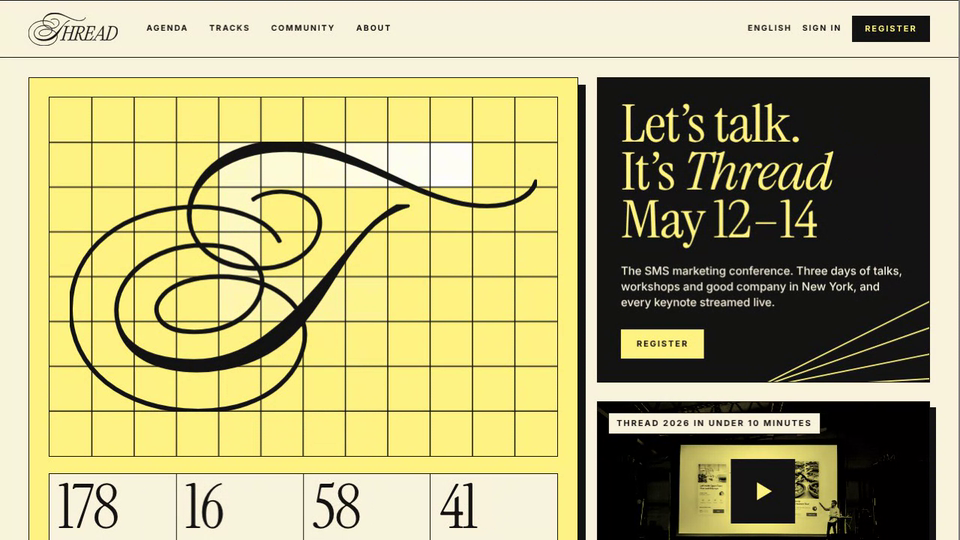
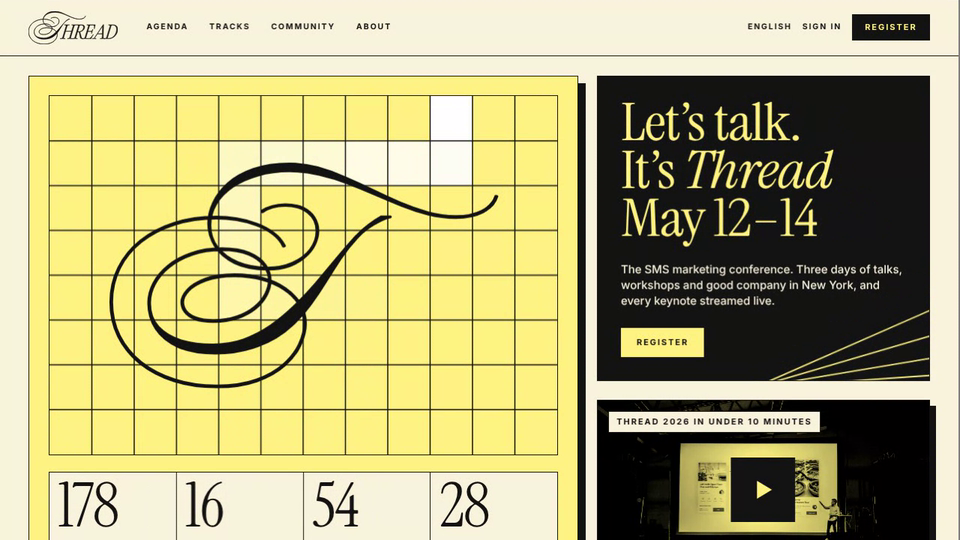
Thread Conference Landing Page: agenda slideshow, unclipped hero T, bigger ticker, animated stripes (#371)
* Thread Conference Landing Page: stripe lines in the May 12-14 card swing up and down in sequence

Claude-Session: https://claude.ai/code/session_01AHeBe1E3DCKJgm5k1K7BVJ

* Thread Conference Landing Page: speaker portraits cycle through the agenda slots, hero T unclipped and smaller, bigger ticker

Claude-Session: https://claude.ai/code/session_01AHeBe1E3DCKJgm5k1K7BVJ

---------

diff --git a/thread-conference-landing/index.html b/thread-conference-landing/index.html
@@ -42,7 +42,7 @@ header.site .btn{padding:11px 16px}
 .frame{border:1.5px solid var(--ink);background:var(--yellow);box-shadow:10px 10px 0 var(--ink);padding:clamp(14px,2vw,26px);display:flex;flex-direction:column;gap:clamp(14px,1.8vw,22px)}
 .art{position:relative;flex:1;min-height:260px;border:1.5px solid var(--ink);background:var(--yellow);overflow:hidden;display:grid;place-items:center}
 .art canvas{position:absolute;inset:0;width:100%;height:100%}
-.art svg{position:relative;width:min(92%,840px);height:auto;color:var(--ink)}
+.art svg{position:relative;width:min(78%,700px);height:auto;color:var(--ink);overflow:visible}
 .count{display:grid;grid-template-columns:repeat(4,1fr);gap:0;border-top:1.5px solid var(--ink);border-left:1.5px solid var(--ink)}
 .count div{border-right:1.5px solid var(--ink);border-bottom:1.5px solid var(--ink);background:var(--cream);padding:6px 12px 10px}
 .count b{display:block;font:400 clamp(44px,6.4vw,104px)/.95 var(--serif);letter-spacing:-.0174em;font-variant-numeric:tabular-nums}
@@ -53,6 +53,10 @@ header.site .btn{padding:11px 16px}
 .dark h1 em{font-style:italic}
 .dark p{font-size:15px;max-width:26em;color:var(--cream)}
 .dark .stripes{position:absolute;right:-10px;bottom:-10px;width:55%;pointer-events:none}
+.dark .stripes path{transform-box:view-box;transform-origin:0 120px;animation:sweep 3.2s var(--ease) infinite}
+.dark .stripes path:nth-child(2){animation-delay:.28s}.dark .stripes path:nth-child(3){animation-delay:.56s}.dark .stripes path:nth-child(4){animation-delay:.84s}
+@keyframes sweep{0%,100%{transform:rotate(3deg)}50%{transform:rotate(-7deg)}}
+@media (prefers-reduced-motion:reduce){.dark .stripes path{animation:none}}
 .dark .btn{align-self:flex-start;position:relative}
 .trailer{position:relative;border:1.5px solid var(--ink);background:var(--yellow);min-height:240px;display:grid;place-items:center;box-shadow:8px 8px 0 var(--ink);overflow:hidden;text-decoration:none}
 .trailer img{position:absolute;inset:0;width:100%;height:100%;object-fit:cover;filter:grayscale(1) contrast(1.4);mix-blend-mode:multiply}
@@ -67,18 +71,25 @@ header.site .btn{padding:11px 16px}
 .live h2{font:400 clamp(40px,5.4vw,84px)/.94 var(--serif)}
 .live .more{display:inline-block;margin-top:20px}
 .sess{display:grid;grid-template-columns:1fr 1fr;gap:clamp(16px,2.4vw,32px)}
-.ses img{display:block;width:100%;aspect-ratio:16/10;object-fit:cover;filter:grayscale(1) contrast(1.4);border:1.5px solid var(--ink);box-shadow:8px 8px 0 var(--ink);background:var(--yellow)}
+.ses .pic{aspect-ratio:16/10;border:1.5px solid var(--ink);box-shadow:8px 8px 0 var(--ink);background:var(--yellow);overflow:hidden}
+.ses img{display:block;width:100%;height:100%;object-fit:cover;object-position:50% 28%;filter:grayscale(1) contrast(1.35);mix-blend-mode:multiply;transition:clip-path .7s var(--ease)}
+.ses .tm,.ses h3,.ses .who,.ses .acts{transition:opacity .3s var(--ease),transform .3s var(--ease)}
+.ses.out img{clip-path:inset(0 0 0 100%)}
+.ses.out .tm,.ses.out h3,.ses.out .who,.ses.out .acts{opacity:0;transform:translateY(8px)}
+.ses.pre img{clip-path:inset(0 100% 0 0);transition:none}
+.ses.pre .tm,.ses.pre h3,.ses.pre .who,.ses.pre .acts{opacity:0;transform:translateY(-8px);transition:none}
+.ses .who{margin-top:8px;font-size:14px;opacity:.85;min-height:1.4em}
 .ses .tm{margin:22px 0 8px}
-.ses h3{font:400 clamp(30px,3.4vw,50px)/1 var(--serif)}
+.ses h3{font:400 clamp(28px,3vw,44px)/1 var(--serif);min-height:2em}
 .ses .acts{display:flex;gap:18px;margin-top:14px;flex-wrap:wrap}
 .ses .acts button{background:none;border:0;border-bottom:1.5px solid var(--ink);padding:0 0 3px;cursor:pointer;font:700 10.5px/1 var(--sans);letter-spacing:.16em;text-transform:uppercase}
 .ses .acts button[aria-pressed=true]{background:var(--yellow)}
 @media (max-width:860px){.live,.sess{grid-template-columns:1fr}}
 /* ticker */
 .tick{background:var(--yellow);border-block:1.5px solid var(--ink);overflow:hidden;white-space:nowrap}
-.tick div{display:inline-flex;gap:34px;padding:14px 0;animation:tk 34s linear infinite;will-change:transform}
-.tick span{font:700 11px/1 var(--sans);letter-spacing:.18em;text-transform:uppercase;display:inline-flex;align-items:center;gap:34px}
-.tick span::after{content:"";width:56px;height:1.5px;background:var(--ink)}
+.tick div{display:inline-flex;gap:40px;padding:22px 0;animation:tk 34s linear infinite;will-change:transform}
+.tick span{font:700 20px/1 var(--sans);letter-spacing:.16em;text-transform:uppercase;display:inline-flex;align-items:center;gap:40px}
+.tick span::after{content:"";width:90px;height:2px;background:var(--ink)}
 @keyframes tk{to{transform:translateX(-50%)}}
 @media (prefers-reduced-motion:reduce){.tick div{animation:none}}
 /* tracks */
@@ -137,7 +148,7 @@ footer .r{margin-left:auto;display:flex;gap:16px}
 <main id="top">
 <section class="hero">
   <div class="frame" aria-label="Countdown to Thread 2027">
-    <div class="art"><canvas id="bg" aria-hidden="true"></canvas><svg class="sw" viewBox="673 5 1587 918" role="img" aria-label="Thread"></svg></div>
+    <div class="art"><canvas id="bg" aria-hidden="true"></canvas><svg class="sw" viewBox="653 -15 1627 958" role="img" aria-label="Thread"></svg></div>
     <div class="count" id="count" role="timer" aria-label="Time until Thread 2027 begins">
       <div><b data-u="d">00</b><span>Days</span></div><div><b data-u="h">00</b><span>Hours</span></div>
       <div><b data-u="m">00</b><span>Minutes</span></div><div><b data-u="s">00</b><span>Seconds</span></div>
@@ -147,7 +158,7 @@ footer .r{margin-left:auto;display:flex;gap:16px}
     <div class="dark" id="register">
       <h1><span class="wide">Let’s talk.<br>It’s <em>Thread</em><br>May 12–14</span></h1>
       <p>The SMS marketing conference. Three days of talks, workshops and good company in New York, and every keynote streamed live.</p>
-      <svg class="stripes" viewBox="0 0 200 120" fill="none" stroke="#fff383" stroke-width="1.5" aria-hidden="true"><path d="M0 120 200 20M0 120 200 50M0 120 200 80M0 120 200 108"/></svg>
+      <svg class="stripes" viewBox="0 0 200 120" fill="none" stroke="#fff383" stroke-width="1.5" aria-hidden="true"><path d="M0 120 200 20"/><path d="M0 120 200 50"/><path d="M0 120 200 80"/><path d="M0 120 200 108"/></svg>
       <a class="btn y" href="#register">Register</a>
     </div>
     <a class="trailer" href="#about" aria-label="Watch Thread 2026 in under 10 minutes">
@@ -160,12 +171,10 @@ footer .r{margin-left:auto;display:flex;gap:16px}
 
 <section class="sec live" id="agenda">
   <div><h2><span class="wide">Join us online for livestreamed keynotes</span></h2><a class="cap more" href="#agenda">View all content</a></div>
-  <div class="sess">
-    <article class="ses"><img src="photos/p1.jpg" alt="Black and white photo for the opening keynote" >
-      <div class="tm cap">10:00 AM – 11:00 AM ET</div><h3>Thread keynote</h3>
+  <div class="sess" id="sess" aria-label="Livestreamed talks">
+    <article class="ses"><div class="pic"><img alt=""></div><div class="tm cap"></div><h3></h3><div class="who"></div>
       <div class="acts"><button type="button">Add to calendar</button><button type="button" aria-pressed="false" class="sv">Save to My Thread</button></div></article>
-    <article class="ses"><img src="photos/p3.jpg" alt="Black and white photo for the marketer keynote" >
-      <div class="tm cap">11:00 AM – 12:00 PM ET</div><h3>Marketer keynote</h3>
+    <article class="ses"><div class="pic"><img alt=""></div><div class="tm cap"></div><h3></h3><div class="who"></div>
       <div class="acts"><button type="button">Add to calendar</button><button type="button" aria-pressed="false" class="sv">Save to My Thread</button></div></article>
   </div>
 </section>
@@ -242,11 +251,27 @@ tick();setInterval(tick,1000);
   S.forEach((pts,i)=>{if(reduce){stroke(pts,0,1,sc,0);return}const u=((((t+i*.55)%PER)+PER)%PER)/PER;stroke(pts,ease((u-.72)/.26),ease(u/.4),sc,t)});
   if(!reduce)requestAnimationFrame(frame)}
  addEventListener('resize',()=>{size();if(reduce)frame(0)});size();requestAnimationFrame(frame)})();
+/* agenda: five talks cycle through the two slots, one slot after the other; each swap wipes the photo and lifts the text */
+(()=>{const T=[
+ {t:'Thread keynote',tm:'10:00 AM – 11:00 AM ET',w:'Maya Chen · VP of Growth, Northwind',i:'photos/talk1.jpg',p:'50% 22%'},
+ {t:'Marketer keynote',tm:'11:00 AM – 12:00 PM ET',w:'Elias Brandt · Founder, Brandt &amp; Co',i:'photos/talk2.jpg',p:'50% 30%'},
+ {t:'Supercharge your list growth',tm:'1:00 PM – 1:45 PM ET',w:'Priya Raman · Head of Lifecycle, Loop',i:'photos/talk3.jpg',p:'50% 30%'},
+ {t:'What texting taught us about talking to customers',tm:'2:00 PM – 2:45 PM ET',w:'Daniel Wu · CMO, Fieldnote',i:'photos/talk4.jpg',p:'50% 24%'},
+ {t:'Compliance without the headache',tm:'3:00 PM – 3:45 PM ET',w:'Mei Tanaka · Director of Messaging, Harbor',i:'photos/talk5.jpg',p:'50% 26%'}];
+ const slots=[...document.querySelectorAll('#sess .ses')],saved=new Set(),reduce=matchMedia('(prefers-reduced-motion:reduce)').matches;
+ const idx=[0,1];let paused=false;
+ function fill(el,n){const d=T[n];el.dataset.n=n;const im=el.querySelector('img');im.src=d.i;im.alt='Portrait of '+d.w.split(' · ')[0];im.style.objectPosition=d.p;
+  el.querySelector('.tm').textContent=d.tm;el.querySelector('h3').textContent=d.t;el.querySelector('.who').innerHTML=d.w;
+  const b=el.querySelector('.sv'),on=saved.has(n);b.setAttribute('aria-pressed',on);b.textContent=on?'Saved ✓':'Save to My Thread'}
+ slots.forEach((el,k)=>{fill(el,idx[k]);el.querySelector('.sv').addEventListener('click',e=>{const n=+el.dataset.n,on=!saved.has(n);on?saved.add(n):saved.delete(n);e.currentTarget.setAttribute('aria-pressed',on);e.currentTarget.textContent=on?'Saved ✓':'Save to My Thread'})});
+ function swap(k){const el=slots[k];idx[k]=(idx[k]+2)%T.length;el.classList.add('out');
+  setTimeout(()=>{fill(el,idx[k]);el.classList.remove('out');el.classList.add('pre');void el.offsetWidth;el.classList.remove('pre')},750)}
+ if(reduce)return;const sec=document.getElementById('sess');sec.addEventListener('pointerenter',()=>paused=true);sec.addEventListener('pointerleave',()=>paused=false);sec.addEventListener('focusin',()=>paused=true);sec.addEventListener('focusout',()=>paused=false);
+ let step=0;setInterval(()=>{if(paused||document.hidden)return;swap(step%2);step++},2600);
+})();
 /* ticker */
 const w=['Thread 2027','May 12–14','New York','The SMS marketing conference'];
 document.getElementById('tk').innerHTML=Array(16).fill(w).flat().map(t=>'<span>'+t+'</span>').join('');
-/* save toggles */
-document.querySelectorAll('.sv').forEach(b=>b.addEventListener('click',()=>{const on=b.getAttribute('aria-pressed')!=='true';b.setAttribute('aria-pressed',on);b.textContent=on?'Saved ✓':'Save to My Thread'}));
 /* hairline grid behind the swash: a white block wanders cell to cell and leaves a fading trail; the cursor leaves one too */
 (()=>{const c=document.getElementById('bg'),x=c.getContext('2d'),reduce=matchMedia('(prefers-reduced-motion:reduce)').matches,N=12,FADE=1.7,STEP=.13;
  let W,H,cw,ch,rows,heat=[],mx=-1,my=-1,hx=2,hy=1,dx=1,dy=0,last=performance.now(),acc=0;

diff --git a/thread-conference-landing/photos/CREDITS.md b/thread-conference-landing/photos/CREDITS.md
@@ -1,2 +1,9 @@
 
 thread-conference-landing/photos/keynote.jpg: keynote stage photo from Unsplash (https://unsplash.com/photos/8d25f7d46678), free to use under the Unsplash License. Shown in black and white, multiplied with yellow.
+
+Agenda portraits (talk1-5.jpg), free to use under the Unsplash License, shown in black and white and multiplied with yellow:
+- talk1.jpg: Vitaly Gariev, https://unsplash.com/photos/a-professional-woman-in-a-suit-smiling-confidently-LlcpQWSWPUo
+- talk2.jpg: Paolo Bendandi, https://unsplash.com/photos/man-wearing-black-blazer-D-8XODEIr_s
+- talk3.jpg: Vitaly Gariev, https://unsplash.com/photos/a-smiling-woman-wearing-glasses-and-a-blue-suit-jI4HREHtae4
+- talk4.jpg: Redd Francisco, https://unsplash.com/photos/man-wearing-black-blazer-v6771a4avV4
+- talk5.jpg: Vitaly Gariev, https://unsplash.com/photos/a-smiling-woman-with-glasses-in-an-office-APjRQ59peUg
